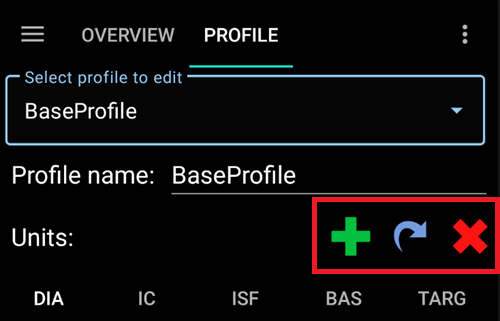
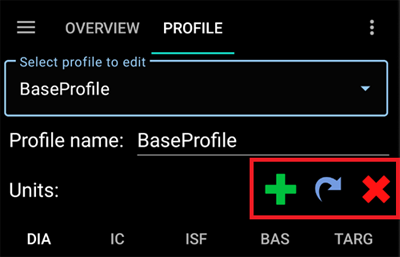
typos + resize images

diff --git a/docs/EN/SettingUpAaps/YourAapsProfile.md b/docs/EN/SettingUpAaps/YourAapsProfile.md
@@ -280,9 +280,11 @@ Here are some reasons why you may have negative IOB, and what action to take:
 :depth: 1
 :local: true
 ```
+(your-aaps-profile-create-and-edit-profiles)=
 ### Create and edit Profiles
 
 The **Profile** tab can be found from the top menu or hamburger menu, depending on your [Config Builder settings](../SettingUpAaps/ConfigBuilder.md).
+
 ![Local Profile buttons](../images/LocalProfile_Settings.png)
 
 Buttons:
@@ -328,7 +330,7 @@ See [Profile switch & Profile Percentage](../DailyLifeWithAaps/ProfileSwitch-Pro
 
 The [Treatments](#aaps-screens-treatments) tab shows all past **Profile Switches**. When going to the **Profile Switch** sub-tab, you can use a past **Profile Switch** as a base to create a new **Profile**. In this case, timeshift and percentage will be applied to the new local profile. Use the **Clone** button shown on line **1**.
 
-You can now go to the [Profile tab](#profile) to edit the newly created Profile.
+You can now go to the [Profile tab](#your-aaps-profile-create-and-edit-profiles) to edit the newly created Profile.
 
 (YourAapsProfile_Profile-backup)=
 ### Profile backup
